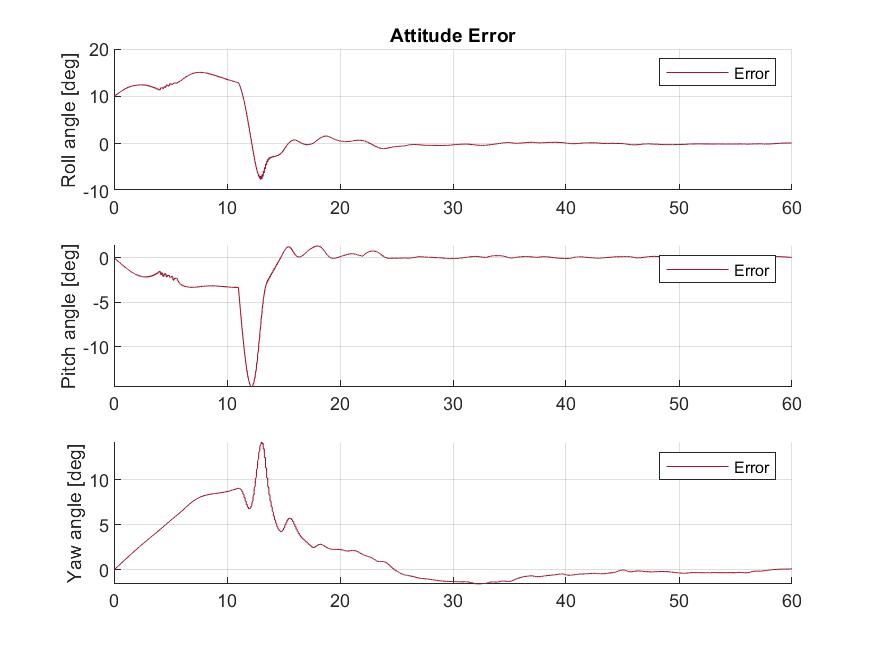
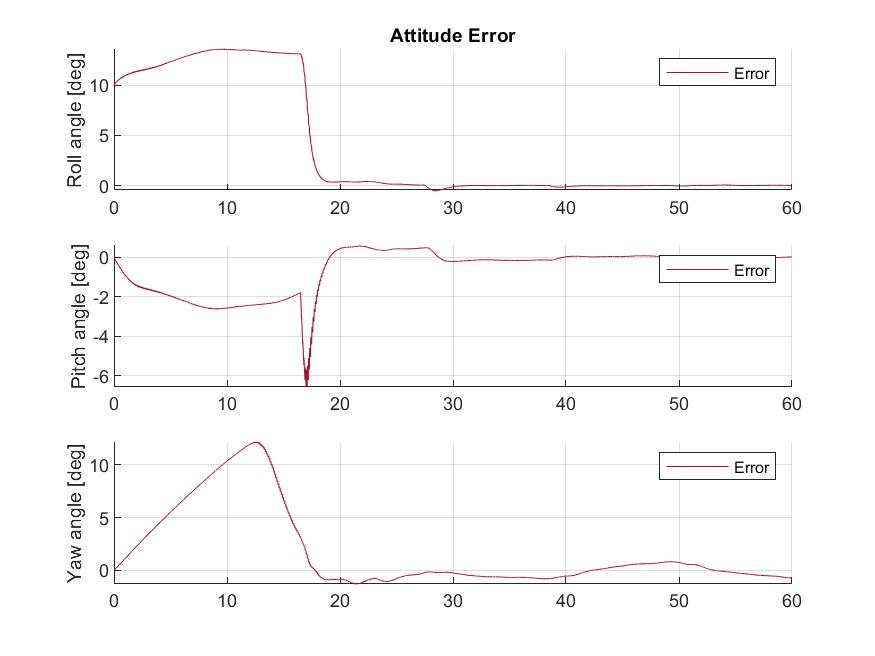
Corrected H_acc matrix. It looks nice, but should only be used when the car is standing still

diff --git a/ESKF/ErrorStateKalman_sola.m b/ESKF/ErrorStateKalman_sola.m
@@ -27,7 +27,7 @@ function [delta_x, E] = ErrorStateKalman_sola(r_b_1, r_b_2, r_b_3, E_prev,delta_
         R_vel = std_vel^2*I3;
         std_acc = 0.5;
         R_acc = std_acc^2*I3;
-        R = blkdiag(R_pos, R_pos, std_vel^2, 2*R_pos);
+        R = blkdiag(R_pos, R_pos, std_vel^2, 2*R_pos, R_acc);
 %         R = blkdiag(R_pos , R_pos);
 
 
@@ -95,12 +95,12 @@ function [delta_x, E] = ErrorStateKalman_sola(r_b_1, r_b_2, r_b_3, E_prev,delta_
           
           
           
-          H = [        I3         Z3          Z3        -R_nb_hat*Smtrx(r_b_1)          Z3       Z3   % gnss_1
-                       I3         Z3          Z3        -R_nb_hat*Smtrx(r_b_2)          Z3       Z3   % gnss_2
-                H_gss_pos  H_gss_vel  H_gss_bacc                     H_gss_att  H_gss_bars  H_gss_g % ground speed
+          H = [        I3         Z3          Z3        -R_nb_hat*Smtrx(r_b_1)          Z3          Z3   % gnss_1
+                       I3         Z3          Z3        -R_nb_hat*Smtrx(r_b_2)          Z3          Z3   % gnss_2
+                H_gss_pos  H_gss_vel  H_gss_bacc                     H_gss_att  H_gss_bars     H_gss_g % ground speed
 %                        Z3         Z3          Z3                      I3          Z3       Z3]; % delta_theta
-                       Z3         Z3          Z3  -R_nb_hat*Smtrx(r_b_2-r_b_1)          Z3       Z3];   % baseline
-%                        Z3         Z3          I3     Smtrx(R_nb_hat' * g_n_nb)          Z3       Z3]; % acc
+                       Z3         Z3          Z3  -R_nb_hat*Smtrx(r_b_2-r_b_1)          Z3          Z3   % baseline
+                       Z3         Z3          I3     -Smtrx(R_nb_hat' * g_n_nb)          Z3  -R_nb_hat']; % acc
                
 %          M = rref(obsv(A,H))  
          rank(obsv(A,H))

diff --git a/ESKF/MESKF_sola.m b/ESKF/MESKF_sola.m
@@ -162,7 +162,7 @@ for k = 1:N
 %         delta_y = [(p_gnss_1 - p_hat_1) ; (p_gnss_2 - p_hat_2); (p_gnss_3 - p_hat_3); delta_theta]; 
 %         delta_y = [(p_gnss_1 - p_hat_1) ; (p_gnss_2 - p_hat_2); delta_theta]; 
 %         delta_y = [(p_gnss_1 - p_hat_1); (p_gnss_2 - p_hat_2)];
-        delta_y = [(p_gnss_1 - p_hat_1) ; (p_gnss_2 - p_hat_2) ; (v_gss - v_hat) ; (bl - bl_hat)];
+        delta_y = [(p_gnss_1 - p_hat_1) ; (p_gnss_2 - p_hat_2) ; (v_gss - v_hat) ; (bl - bl_hat); (f_imu - f_hat)];
         
         % compute error state with ESKF
         [delta_x, E_prev] = ErrorStateKalman_sola(r_b_1, r_b_2,r_b_3, E_prev, delta_y, R_nb_ins, f_low, 0, f_b_imu(:,k), omega_b_imu(:,k), g_n_nb, x_ins);

diff --git a/ESKF/SkidPadSim.m b/ESKF/SkidPadSim.m
@@ -80,14 +80,14 @@ for k = 1:N
     
     time(k) = t;
     
-    if (t > t_goal) && (start == false)
+    if (t > 2*t_goal) && (start == false)
         omega_b_nb = [0 0 0]';
         a_b_nb = [v_abs/t_goal 0 0]';
         start = true;
     end
     
     
-    if (t > 2*t_goal) && (skid_flag == false)
+    if (t > 3*t_goal) && (skid_flag == false)
         omega_b_nb = [0 0 pi/(t_goal/2)]';
         a_b_nb = [0 (v_abs^2)/R 0]';
         skid_flag = true;
